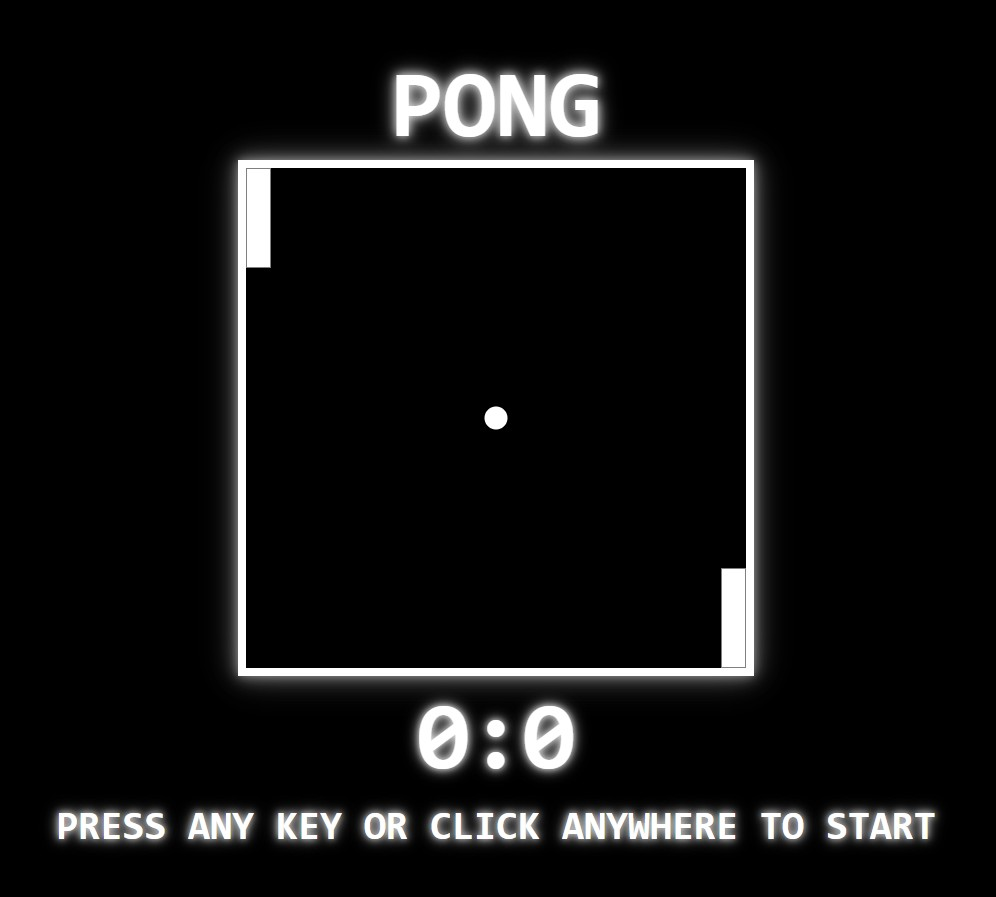
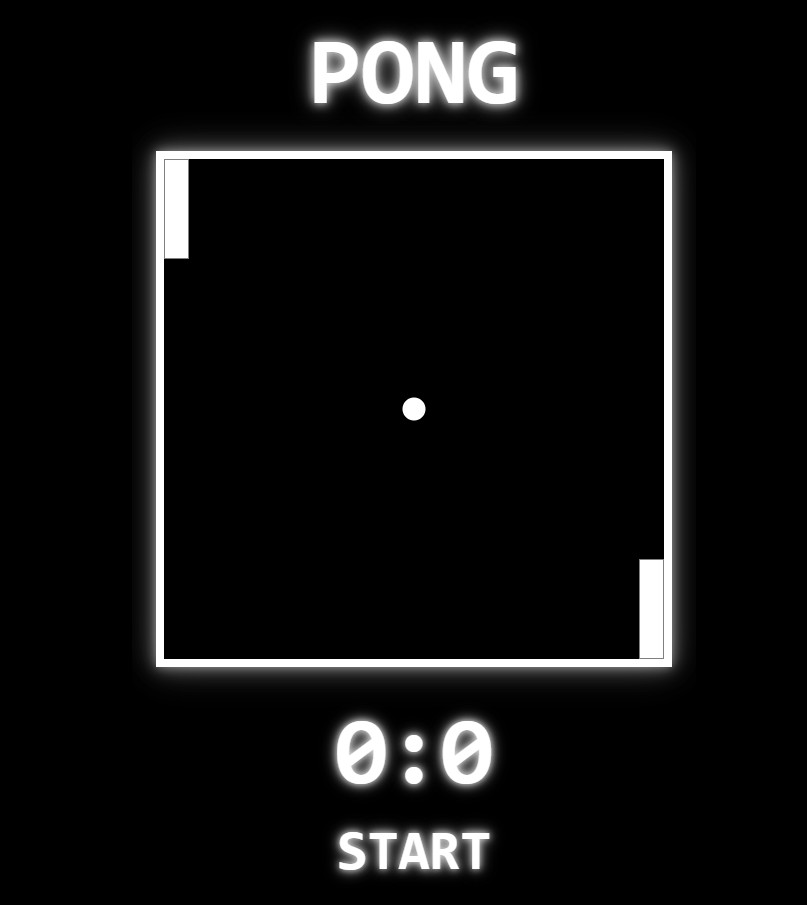
Added more space for glow effect

Changed region(s): [[0.031, 0.0312, 0.9603, 0.9677], [0.4647, 0.437, 0.5266, 0.4994]]

diff --git a/assets/css/style.css b/assets/css/style.css
@@ -23,7 +23,6 @@ body {
 h1 {
   padding: 0 20px;
   font-size: 6rem;
-  margin-bottom: 1rem;
   text-shadow: 0 0 8px rgba(255, 255, 255, 0.6),
     0 0 12px rgba(255, 255, 255, 0.5), 0 0 18px rgba(255, 255, 255, 0.4),
     0 0 24px rgba(255, 255, 255, 0.3);
@@ -31,6 +30,7 @@ h1 {
 
 #gameBoard {
   cursor: pointer;
+  margin: 1.5rem;
   border: 8px solid white;
   box-shadow: 0 0 10px rgba(255, 255, 255, 0.4),
     0 0 20px rgba(255, 255, 255, 0.3), 0 0 30px rgba(255, 255, 255, 0.2),
@@ -40,7 +40,6 @@ h1 {
 #scoreText {
   padding: 0 20px;
   font-size: 6rem;
-  margin-top: 1rem;
   text-shadow: 0 0 6px rgba(255, 255, 255, 0.6),
     0 0 10px rgba(255, 255, 255, 0.5), 0 0 14px rgba(255, 255, 255, 0.4),
     0 0 18px rgba(255, 255, 255, 0.3);
